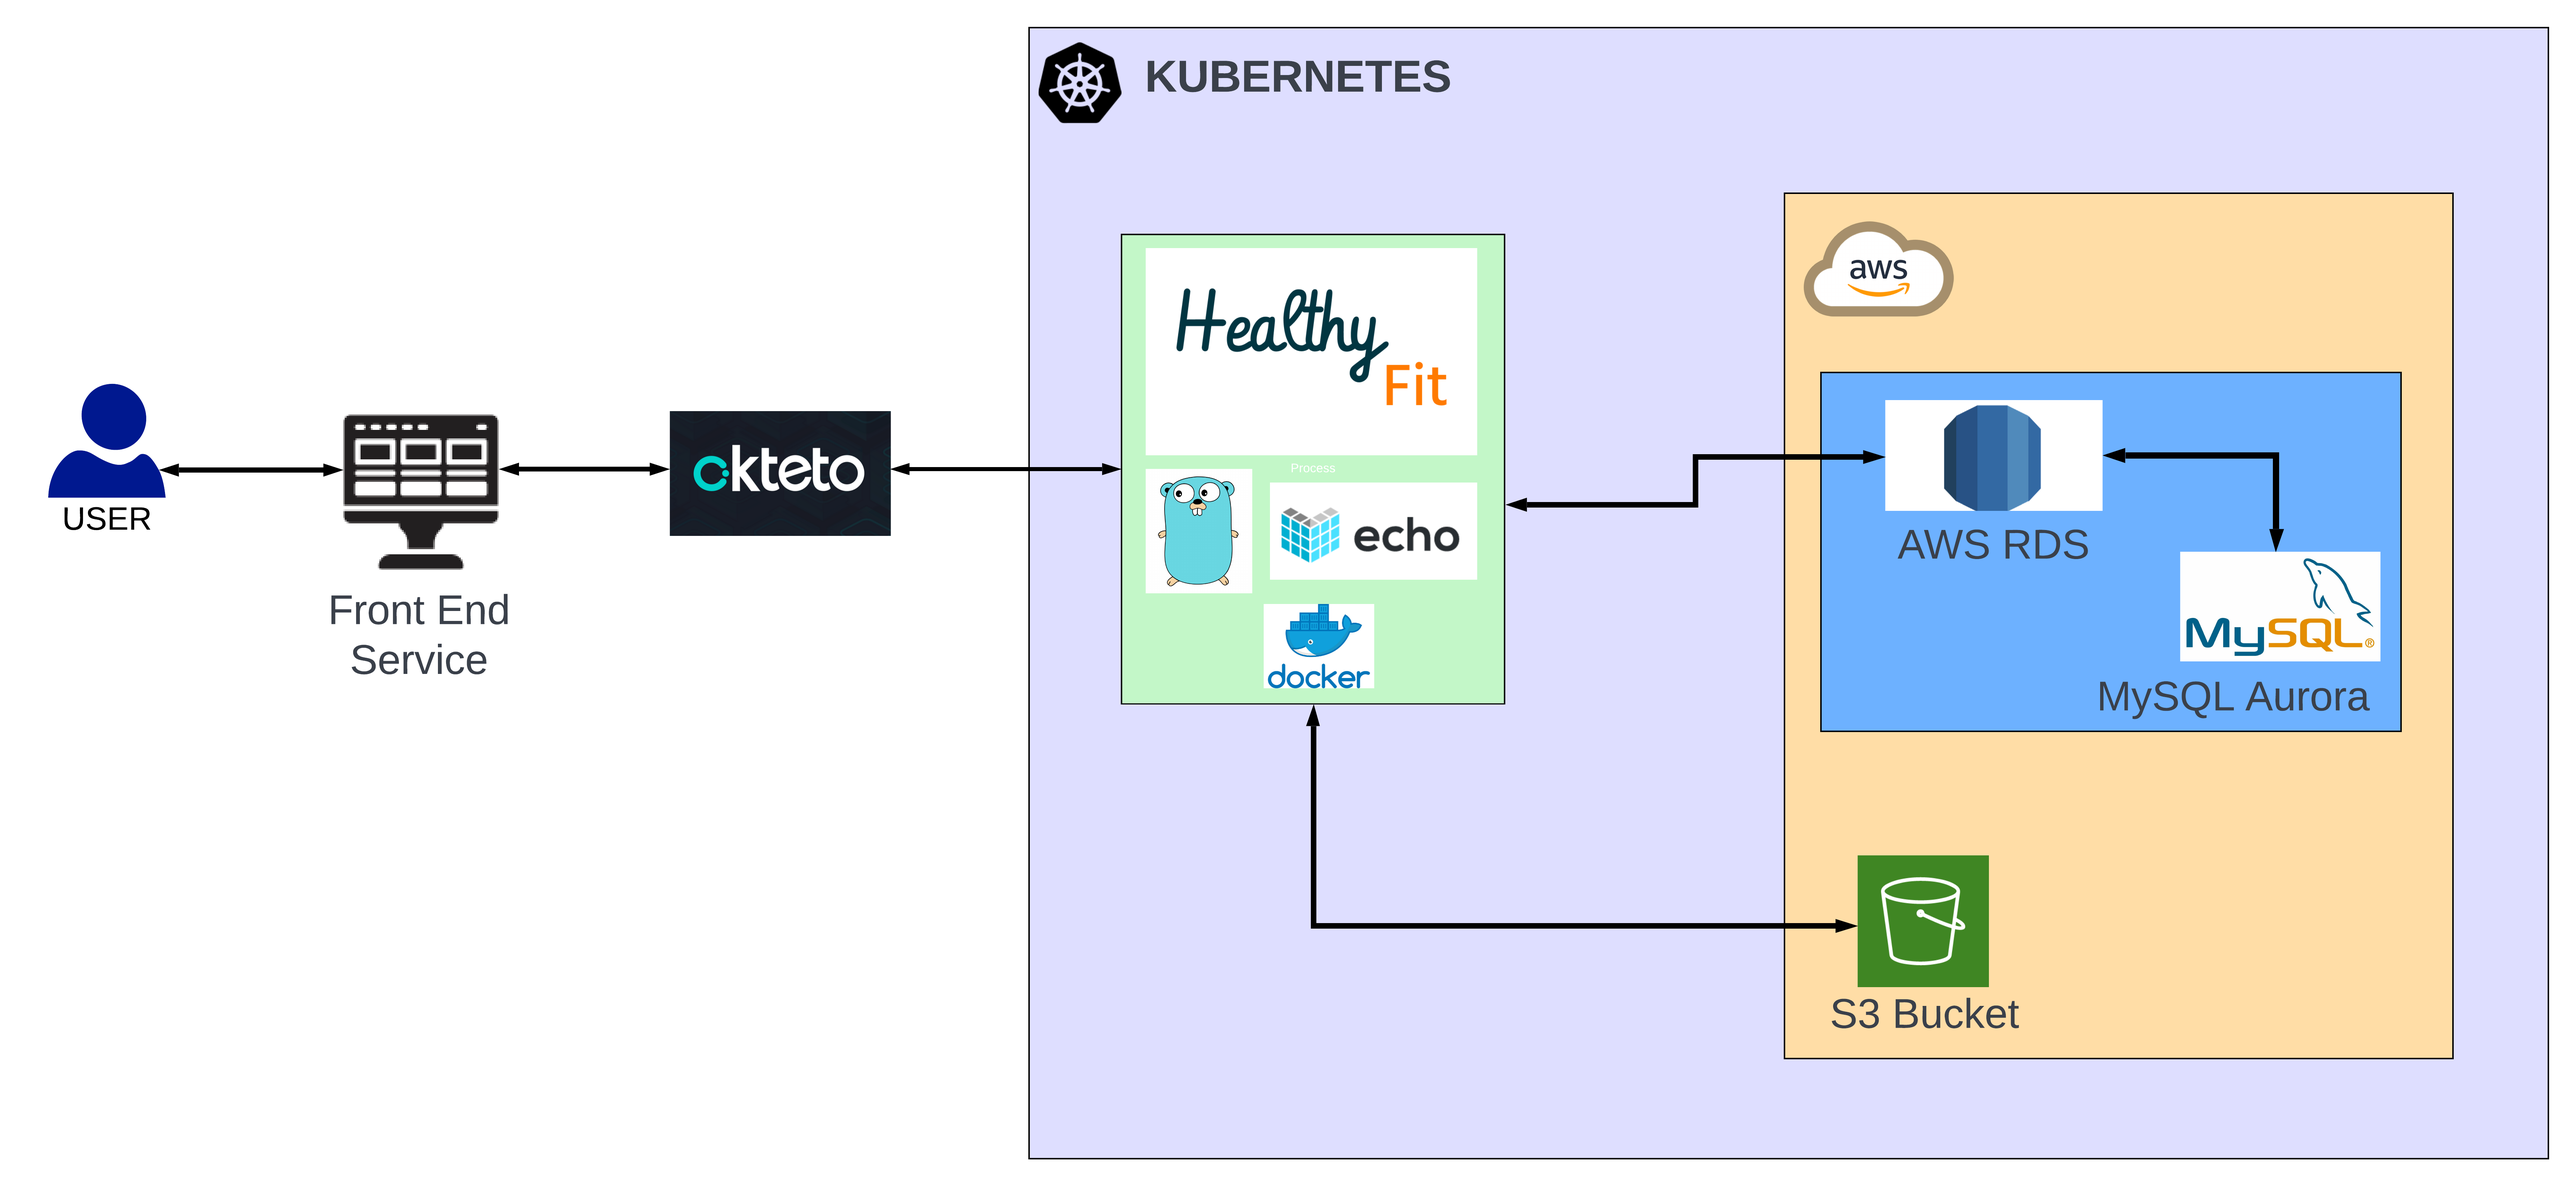
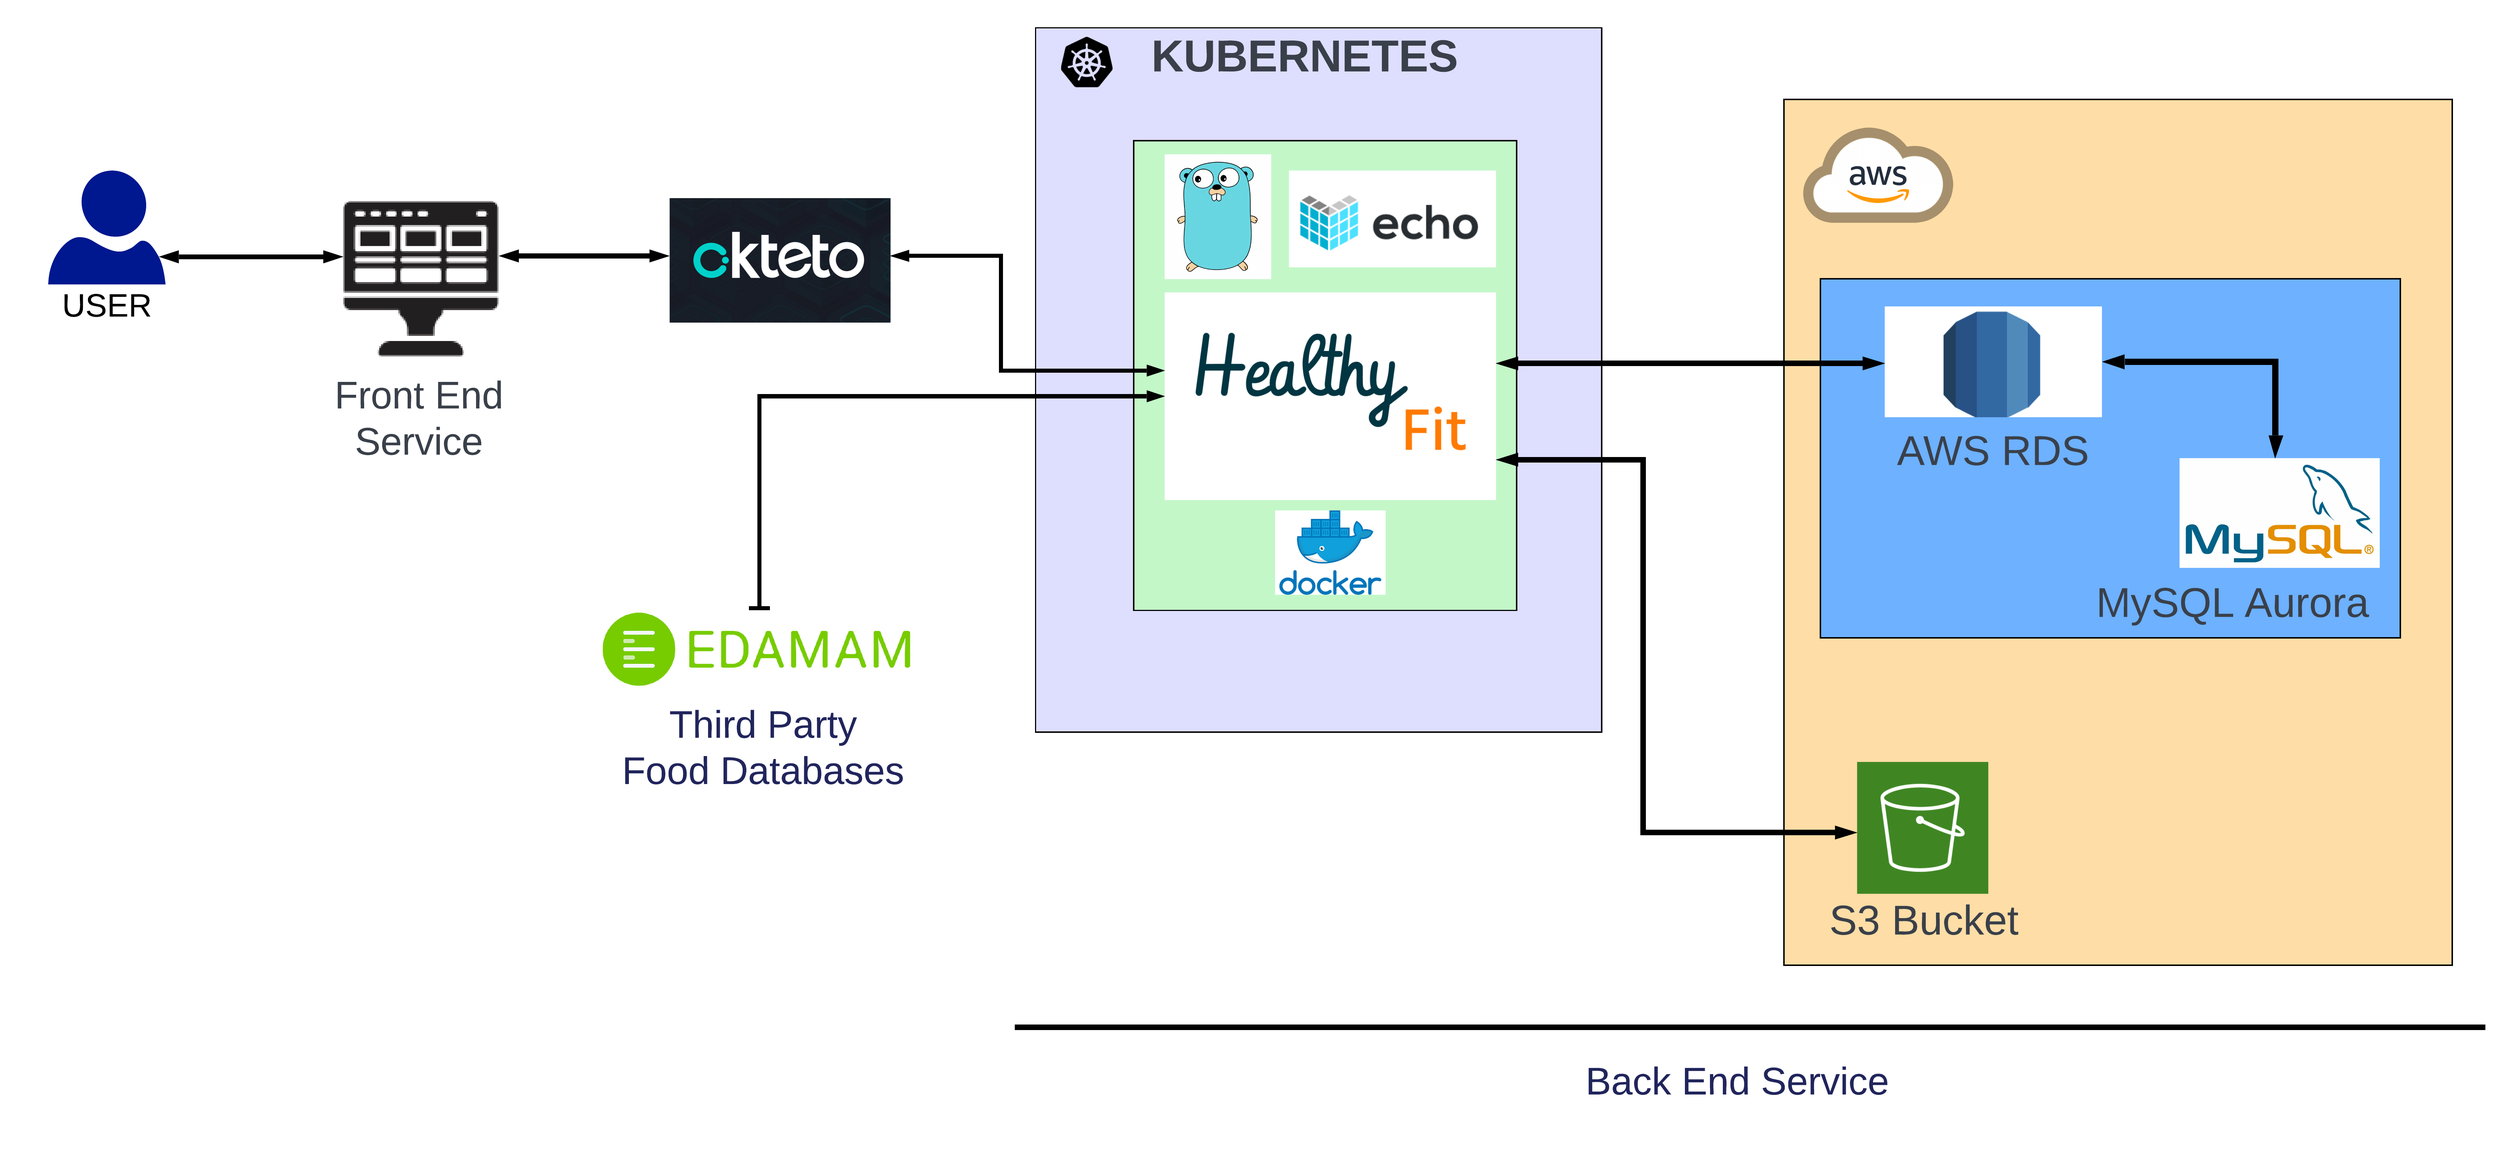
update readme

diff --git a/README.md b/README.md
@@ -36,7 +36,7 @@
 
 <!-- ABOUT THE PROJECT -->
 ## About The Project
--  
+An application to get recommendations for health-supporting foods to lose weight or gain weight
 
 
 <p align="right">(<a href="#top">back to top</a>)</p>
@@ -46,10 +46,10 @@
 -  Create account registration
 
 As Users
--  see the content of the food or drink
--  set a goal to get a recommendation menu calculation
--  choose the recommend menu
--  view the history of the selected menu
+-  See the content of the food or drink
+-  Set a goal to get a recommendation menu calculation
+-  Choose the recommend menu
+-  View the history of the selected menu
 
 As Admin
 -  CRUD types of food, drinks, fruit, snacks
@@ -60,11 +60,24 @@ As Admin
 
 ## Tech Stack
 ### Framework
--
+- [Echo (Go Web Framework)](https://echo.labstack.com/)
+
 ### Build With
--
+- [Golang (Language)](https://go.dev/) 
+- [Gorm (ORM Library)](https://aws.amazon.com/id/?nc2=h_lg)
+- [Testify (Unit Test)](https://github.com/stretchr/testify)
+
+### Third Party
+- [AWS S3 Bucket](https://aws.amazon.com/id/?nc2=h_lg)
+- [Edamam Food Databases](https://www.edamam.com/)
+
+### Database
+- [AWS RDS](https://aws.amazon.com/id/?nc2=h_lg)
+
 ### Deployment
--
+- [Docker (Container - image)](https://hub.docker.com/)
+- [Okteto (Kuberneter Platform)](https://www.okteto.com/)
+
 ### Collaboration 
 - [Trello](https://trello.com/) - Manage Project
 - [Github](https://github.com/) - Versioning Project
@@ -90,14 +103,14 @@ As Admin
 <!-- HLA -->
 ## High Level Architecture
 
-<img src="https://github.com/FINAL-PROJECT-ALTA/BE/raw/main/doc/HLA.png" alt="display-preview">
+<img src="./doc/HLA.png" alt="display-preview">
 
 <p align="right">(<a href="#top">back to top</a>)</p>
 
 <!-- ERD -->
 ## ERD
 
-<img src="" alt="display-preview">
+<img src="./doc/ERD.png" alt="display-preview">
 
 <p align="right">(<a href="#top">back to top</a>)</p>
 
@@ -110,7 +123,7 @@ As Admin
 
 <!-- CONTACT -->
 ## Authors
-* Arya Nur Dewangga Putra - [Github]() · [LinkedIn]()
-* Ade Mawan - [Github]() · [LinkedIn]()
+* Arya Nur Dewangga Putra - [Github](https://github.com/aaryadewangga) · [LinkedIn](https://www.linkedin.com/in/aryadewangga/)
+* Ade Mawan - [Github](https://github.com/ademawan) · [LinkedIn](https://www.linkedin.com/in/ade-mawan-527657177/)
 
 <p align="right">(<a href="#top">back to top</a>)</p>
